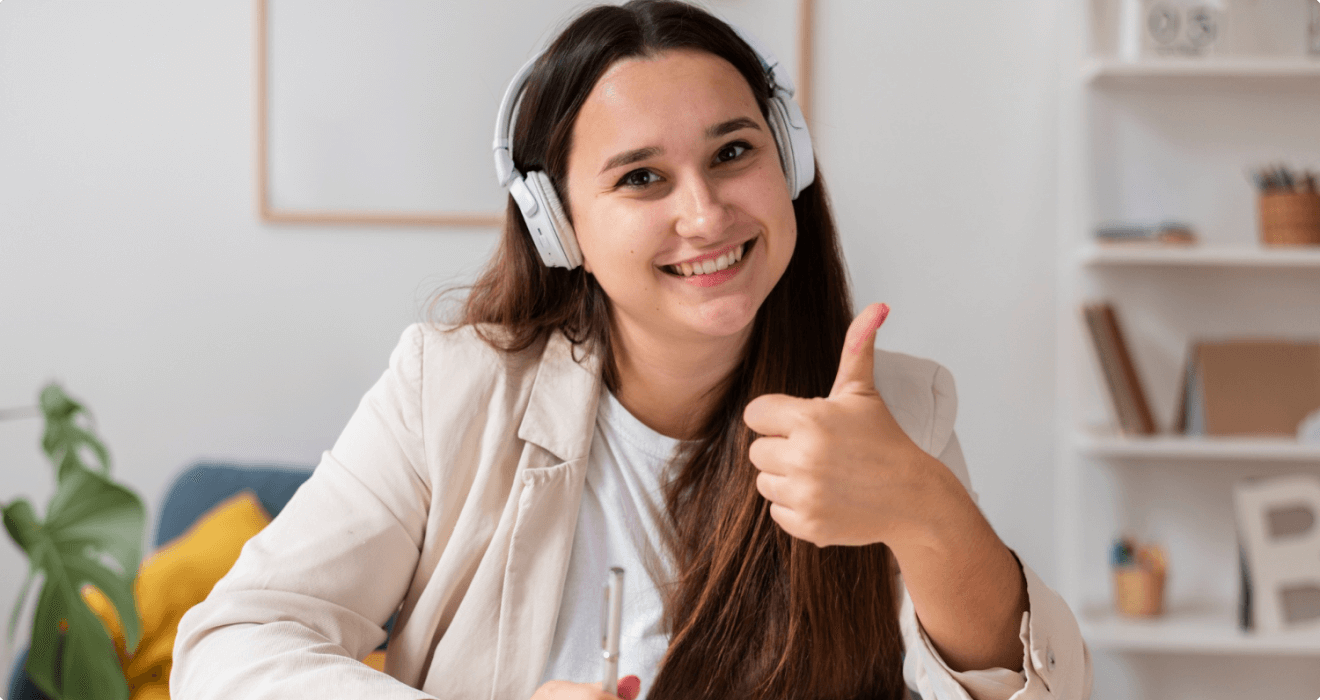
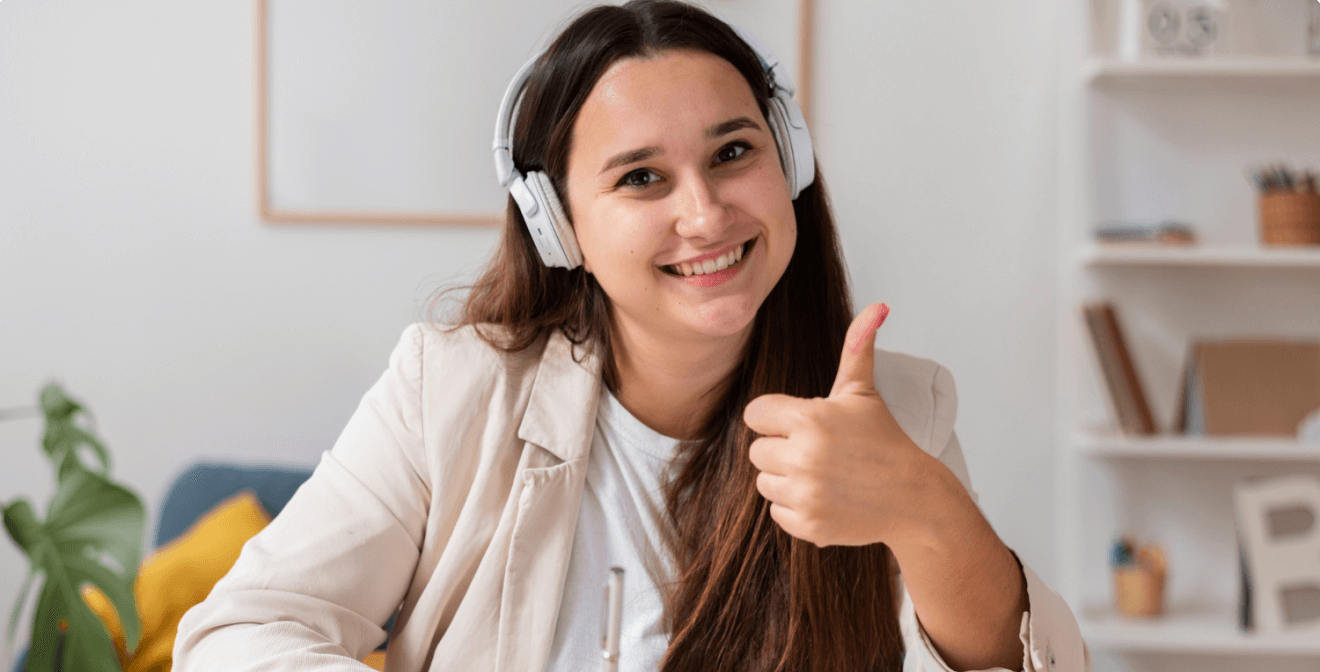
responsive carousel

diff --git a/index.html b/index.html
@@ -6,6 +6,8 @@
     <title>Americaninst.com</title>
 
      <!-- all links  -->
+     <link href="https://fonts.googleapis.com/css2?family=Poppins&display=swap" rel="stylesheet">
+
     <link href="https://cdn.jsdelivr.net/npm/bootstrap@5.2.0/dist/css/bootstrap.min.css" rel="stylesheet" integrity="sha384-gH2yIJqKdNHPEq0n4Mqa/HGKIhSkIHeL5AyhkYV8i59U5AR6csBvApHHNl/vI1Bx" crossorigin="anonymous">
     <link rel="stylesheet" href="style.css">
   </head>
@@ -46,66 +48,141 @@
       </nav>
     <!-- =======================navbar-end====================== -->
 <!-- ======================carousel part-start================= -->
-<div id="carouselExampleCaptions" class="carousel slide mb-5" data-bs-ride="false">
-    <div class="carousel-indicators  ">
-      <button type="button" data-bs-target="#carouselExampleCaptions" data-bs-slide-to="0" class="active" aria-current="true" aria-label="Slide 1"></button>
-      <button type="button" data-bs-target="#carouselExampleCaptions" data-bs-slide-to="1" aria-label="Slide 2"></button>
-      <button type="button" data-bs-target="#carouselExampleCaptions" data-bs-slide-to="2" aria-label="Slide 3"></button>
-    </div>
-    
-    <div class="carousel-inner text-center ">
-      <!-- first-carousel-item -->
-      <div class="carousel-item active  ">
-        <div class="text-align-center">
-        <img src="images/cover/cover-1.png " class=" d-block w-100 " alt="...">
-      </div>
-        <div class="carousel-caption mb-5  img-text ">
-          <h1 class="fw-bolder text-light   fs-1">Get Started Digital 
-            Learning</h1>
-          <p>Some representative placeholder content for the first slide.</p>
-          <button class="btn btn-primary py-lg-2 px-lg-3 fw-semibold">Get Started
-          </button>
-        </div>
-      </div>
 
-      <div class="carousel-item active  ">
-        <div class="text-align-center">
-        <img src="images/cover/cover-2.jpg " class=" d-block w-100 " alt="...">
-      </div>
-        <div class="carousel-caption mb-5  img-text ">
-          <h1 class="fw-bolder text-light fs-1">Get Started Digital 
-            Learning</h1>
-          <p>Some representative placeholder content for the first slide.</p>
-          <button class="btn btn-primary py-lg-2 px-lg-3 fw-semibold">Get Started
-          </button>
-        </div>
-     
-      </div>
-       <div class="carousel-item active  ">
-        <div class="text-align-center">
-        <img src="images/cover/cover-3.jpg " class=" d-block w-100 " alt="...">
-      </div>
-        <div class="carousel-caption mb-5  img-text ">
-          <h1 class="fw-bolder text-light fs-1">Get Started Digital 
-            Learningl</h1>
-          <p>Some representative placeholder content for the first slide.</p>
-          <button class="btn btn-primary py-lg-2 px-lg-3 fw-semibold">Get Started
-          </button>
-        </div>
-      </div>
-    </div>
-    <button class="carousel-control-prev" type="button" data-bs-target="#carouselExampleCaptions" data-bs-slide="prev">
-      <span class="carousel-control-prev-icon" aria-hidden="true"></span>
-      <span class="visually-hidden">Previous</span>
-    </button>
-    <button class="carousel-control-next" type="button" data-bs-target="#carouselExampleCaptions" data-bs-slide="next">
-      <span class="carousel-control-next-icon" aria-hidden="true"></span>
-      <span class="visually-hidden">Next</span>
-    </button>
-  </div>
 <!-- ======================carousel part-end================= -->
 
    </header>
+<main class="container">
+  <section >
+    <div id="carouselExampleCaptions" class="carousel slide mb-5" data-bs-ride="false">
+      <div class="carousel-indicators">
+        <button type="button" data-bs-target="#carouselExampleCaptions" data-bs-slide-to="0" class="active" aria-current="true" aria-label="Slide 1"></button>
+        <button type="button" data-bs-target="#carouselExampleCaptions" data-bs-slide-to="1" aria-label="Slide 2"></button>
+        <button type="button" data-bs-target="#carouselExampleCaptions" data-bs-slide-to="2" aria-label="Slide 3"></button>
+      </div>
+      
+      <div class="carousel-inner text-center ">
+        <!-- first-carousel-item -->
+        <div class="carousel-item active  ">
+          <div class="text-align-center">
+          <img src="images/cover/cover-1.png " class=" images d-block w-100 " alt="...">
+        </div>
+          <div class="carousel-caption mb-5  img-text ">
+            <h1 class="fw-bolder text-light">Get Started Digital 
+              Learning</h1>
+            <p>It is a long established fact that a reader will 
+              be distracted by the readable content of a 
+              page when looking at its layout. 
+            </p>
+            <button class="btn btn-primary py-lg-2 px-lg-3 fw-semibold">Get Started
+            </button>
+          </div>
+        </div>
+  
+        <div class="carousel-item active  ">
+          <div class="text-align-center">
+          <img src="images/cover/cover-2.jpg " class=" images d-block w-100 " alt="...">
+        </div>
+          <div class="carousel-caption mb-5  img-text ">
+            <h1 class="fw-bolder text-light fs-1">Get Started Digital 
+              Learning</h1>
+            <p>Some representative placeholder content for the first slide.</p>
+            <button class="btn btn-primary py-lg-2 px-lg-3 fw-semibold">Get Started
+            </button>
+          </div>
+       
+        </div>
+         <div class="carousel-item active  ">
+          <div class="text-align-center">
+          <img src="images/cover/cover-3.jpg " class="images d-block w-100 " alt="...">
+        </div>
+          <div class="carousel-caption mb-5  img-text ">
+            <h1 class="fw-bolder text-light fs-1">Get Started Digital 
+              Learningl</h1>
+            <p>Some representative placeholder content for the first slide.</p>
+            <button class="btn btn-primary py-lg-2 px-lg-3 fw-semibold">Get Started
+            </button>
+          </div>
+        </div>
+      </div>
+      <button class="carousel-control-prev" type="button" data-bs-target="#carouselExampleCaptions" data-bs-slide="prev">
+        <span class="carousel-control-prev-icon" aria-hidden="true"></span>
+        <span class="visually-hidden">Previous</span>
+      </button>
+      <button class="carousel-control-next" type="button" data-bs-target="#carouselExampleCaptions" data-bs-slide="next">
+        <span class="carousel-control-next-icon" aria-hidden="true"></span>
+        <span class="visually-hidden">Next</span>
+      </button>
+    </div>
+  </section>
+  <h1 class="text-center fw-bolder">Discover Our Popular <br>
+    Courses</h1>
+    <p class="text-center">It is a long established fact that a reader will be distracted by the readable <br> 
+      content of a page when looking at its layout.</p>
+      <section>
+       <div class="container pe-0">
+        
+        <div class="row gap-3 ">
+          <div class="col col-lg-6 col-md-12 col-sm-12 d-flex align-items-center   border rounded border-1 border-dark">
+            <div>
+              <img class="img-fluid" src="images/course/course-1.png" alt="">
+            </div>
+            <div class="">
+              <h4>Fundamental Of UI/UX Design</h4>
+              <p> 4+ yers of professional experience in Web / UI / UX Design includes <br> designing for fields such as creative studios and agencie</p>
+                <span class="fw-bold text-primary">Price : 20$</span>
+            </div>
+          </div>
+          <div class="col col-lg-6 col-md-12 col-sm-12 d-flex align-items-center gap-3  border rounded border-1 border-dark ">
+            <div>
+              <img class="img-fluid" src="images/course/course-1.png" alt="">
+            </div>
+            <div class="">
+              <h4>Fundamental Of UI/UX Design</h4>
+              <p> 4+ yers of professional experience in Web / UI / UX Design includes <br> designing for fields such as creative studios and agencie</p>
+                <span class="fw-bold text-primary">Price : 20$</span>
+            </div>
+          </div><div class="col col-lg-6 col-md-12 col-sm-12 d-flex align-items-center gap-3  border rounded border-1 border-dark ">
+            <div>
+              <img class="img-fluid" src="images/course/course-1.png" alt="">
+            </div>
+            <div class="">
+              <h4>Fundamental Of UI/UX Design</h4>
+              <p> 4+ yers of professional experience in Web / UI / UX Design includes <br> designing for fields such as creative studios and agencie</p>
+                <span class="fw-bold text-primary">Price : 20$</span>
+            </div>
+          </div><div class="col col-lg-6 col-md-12 col-sm-12 d-flex align-items-center gap-3  border rounded border-1 border-dark">
+            <div>
+              <img class="img-fluid" src="images/course/course-1.png" alt="">
+            </div>
+            <div class="">
+              <h4>Fundamental Of UI/UX Design</h4>
+              <p> 4+ yers of professional experience in Web / UI / UX Design includes <br> designing for fields such as creative studios and agencie</p>
+                <span class="fw-bold text-primary">Price : 20$</span>
+            </div>
+          </div><div class="col col-lg-6 col-md-12 col-sm-12 d-flex align-items-center gap-3  border rounded border-1 border-dark">
+            <div>
+              <img class="img-fluid" src="images/course/course-1.png" alt="">
+            </div>
+            <div class="">
+              <h4>Fundamental Of UI/UX Design</h4>
+              <p> 4+ yers of professional experience in Web / UI / UX Design includes <br> designing for fields such as creative studios and agencie</p>
+                <span class="fw-bold text-primary">Price : 20$</span>
+            </div>
+          </div><div class="col col-lg-6 col-md-12 col-sm-12 d-flex align-items-center gap-3  border rounded border-1 border-dark">
+            <div>
+              <img class="img-fluid" src="images/course/course-1.png" alt="">
+            </div>
+            <div class="">
+              <h4>Fundamental Of UI/UX Design</h4>
+              <p></p>
+                <span class="fw-bold text-primary">Price : 20$</span>
+            </div>
+          </div>
+        </div>
+       </div>
+      </section>
+</main>
  
 
     <script src="https://cdn.jsdelivr.net/npm/bootstrap@5.2.0/dist/js/bootstrap.bundle.min.js" integrity="sha384-A3rJD856KowSb7dwlZdYEkO39Gagi7vIsF0jrRAoQmDKKtQBHUuLZ9AsSv4jD4Xa" crossorigin="anonymous"></script>

diff --git a/style.css b/style.css
@@ -1,3 +1,11 @@
+*{
+  font-family: 'Poppins', sans-serif;
+
+}
+.images{
+  filter: brightness(50%);
+  height:550px;
+}
 .text-align-center{
     margin-bottom: 255px;
     position: relative;
@@ -5,11 +13,11 @@
 }
 .img-text{
     position: absolute;
- 
     left: 50%;
      top: 50%;  
     transform: translate(-50%,-50%);
     width: 50%;
-    height: 50%;
+    height:65%;
+  
 
 }
